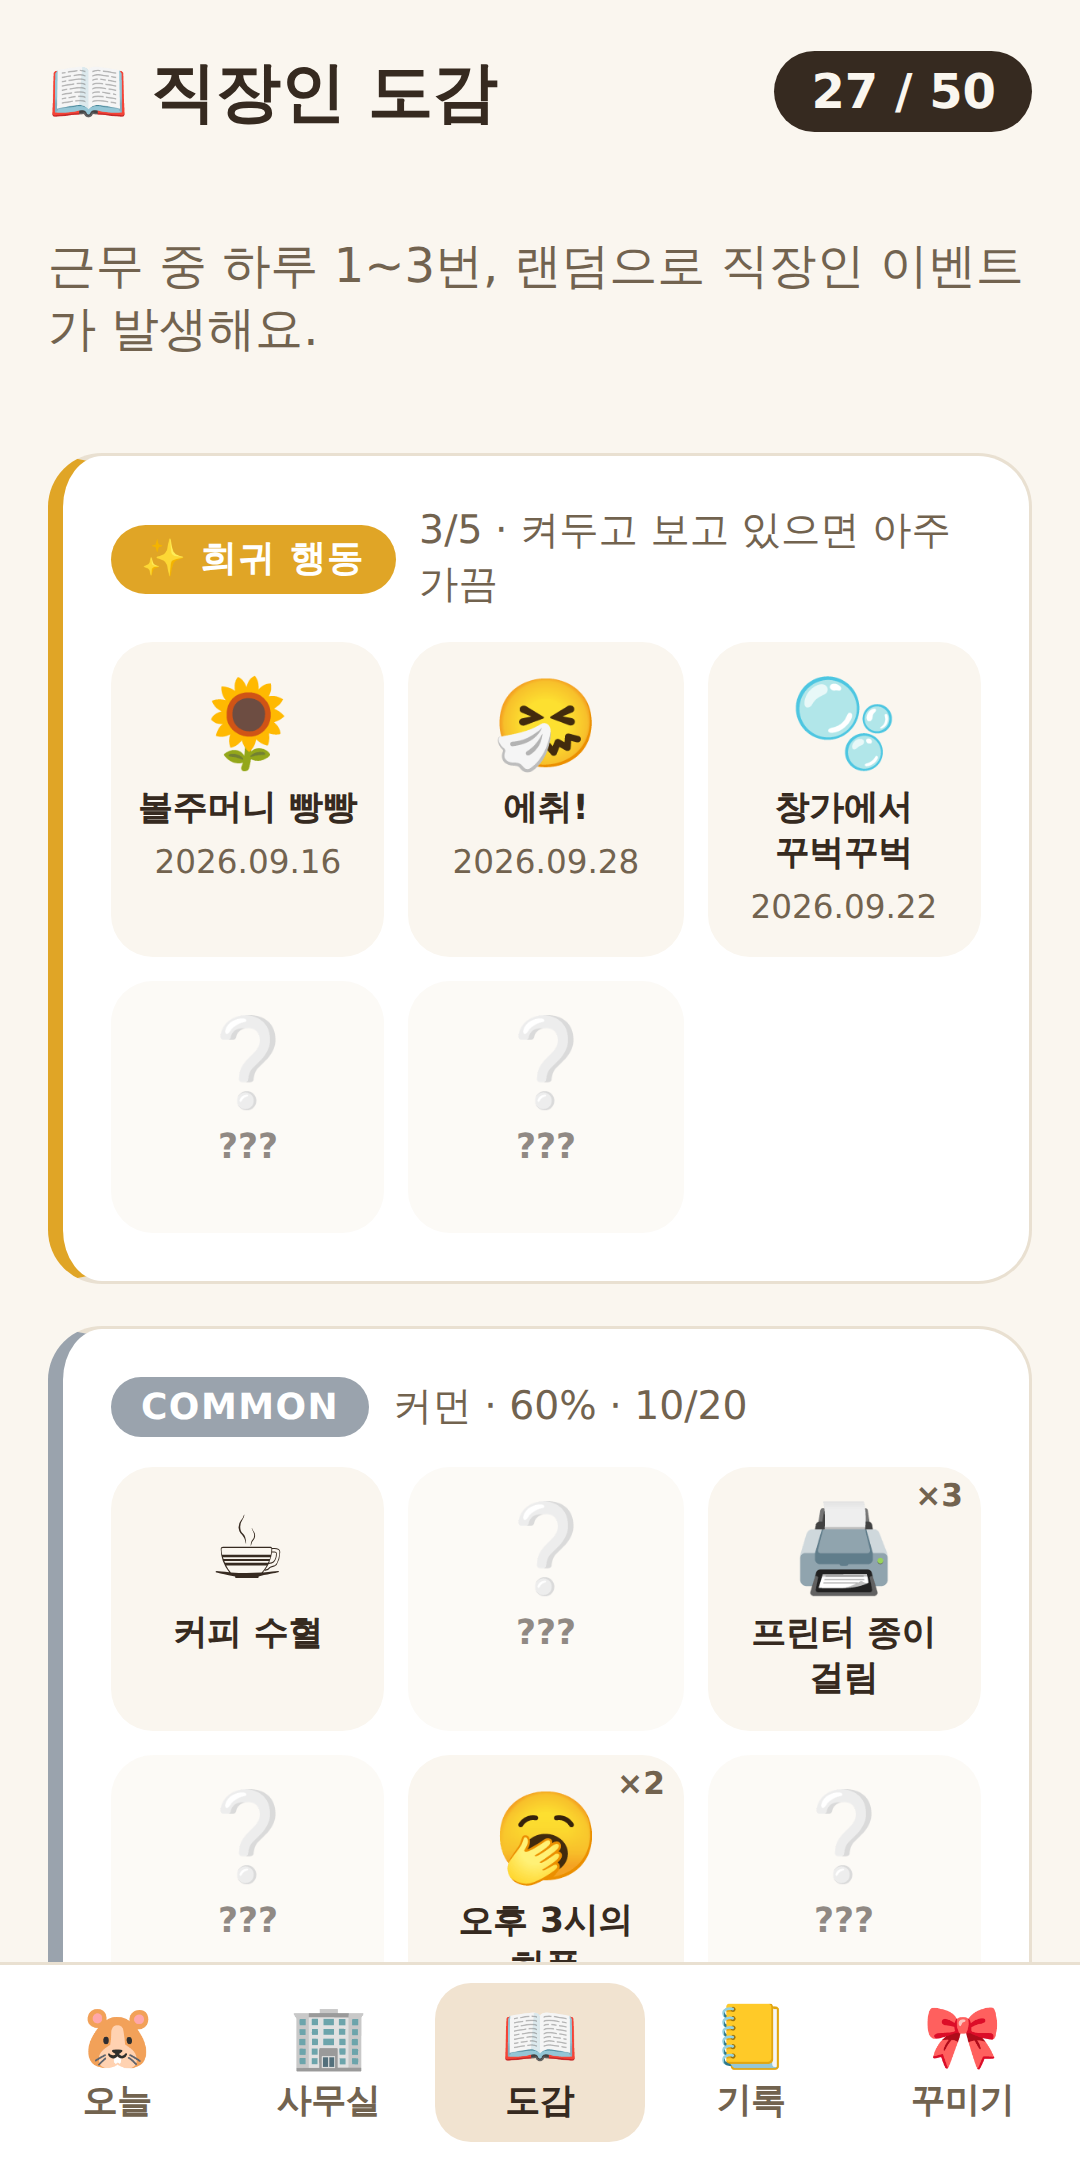
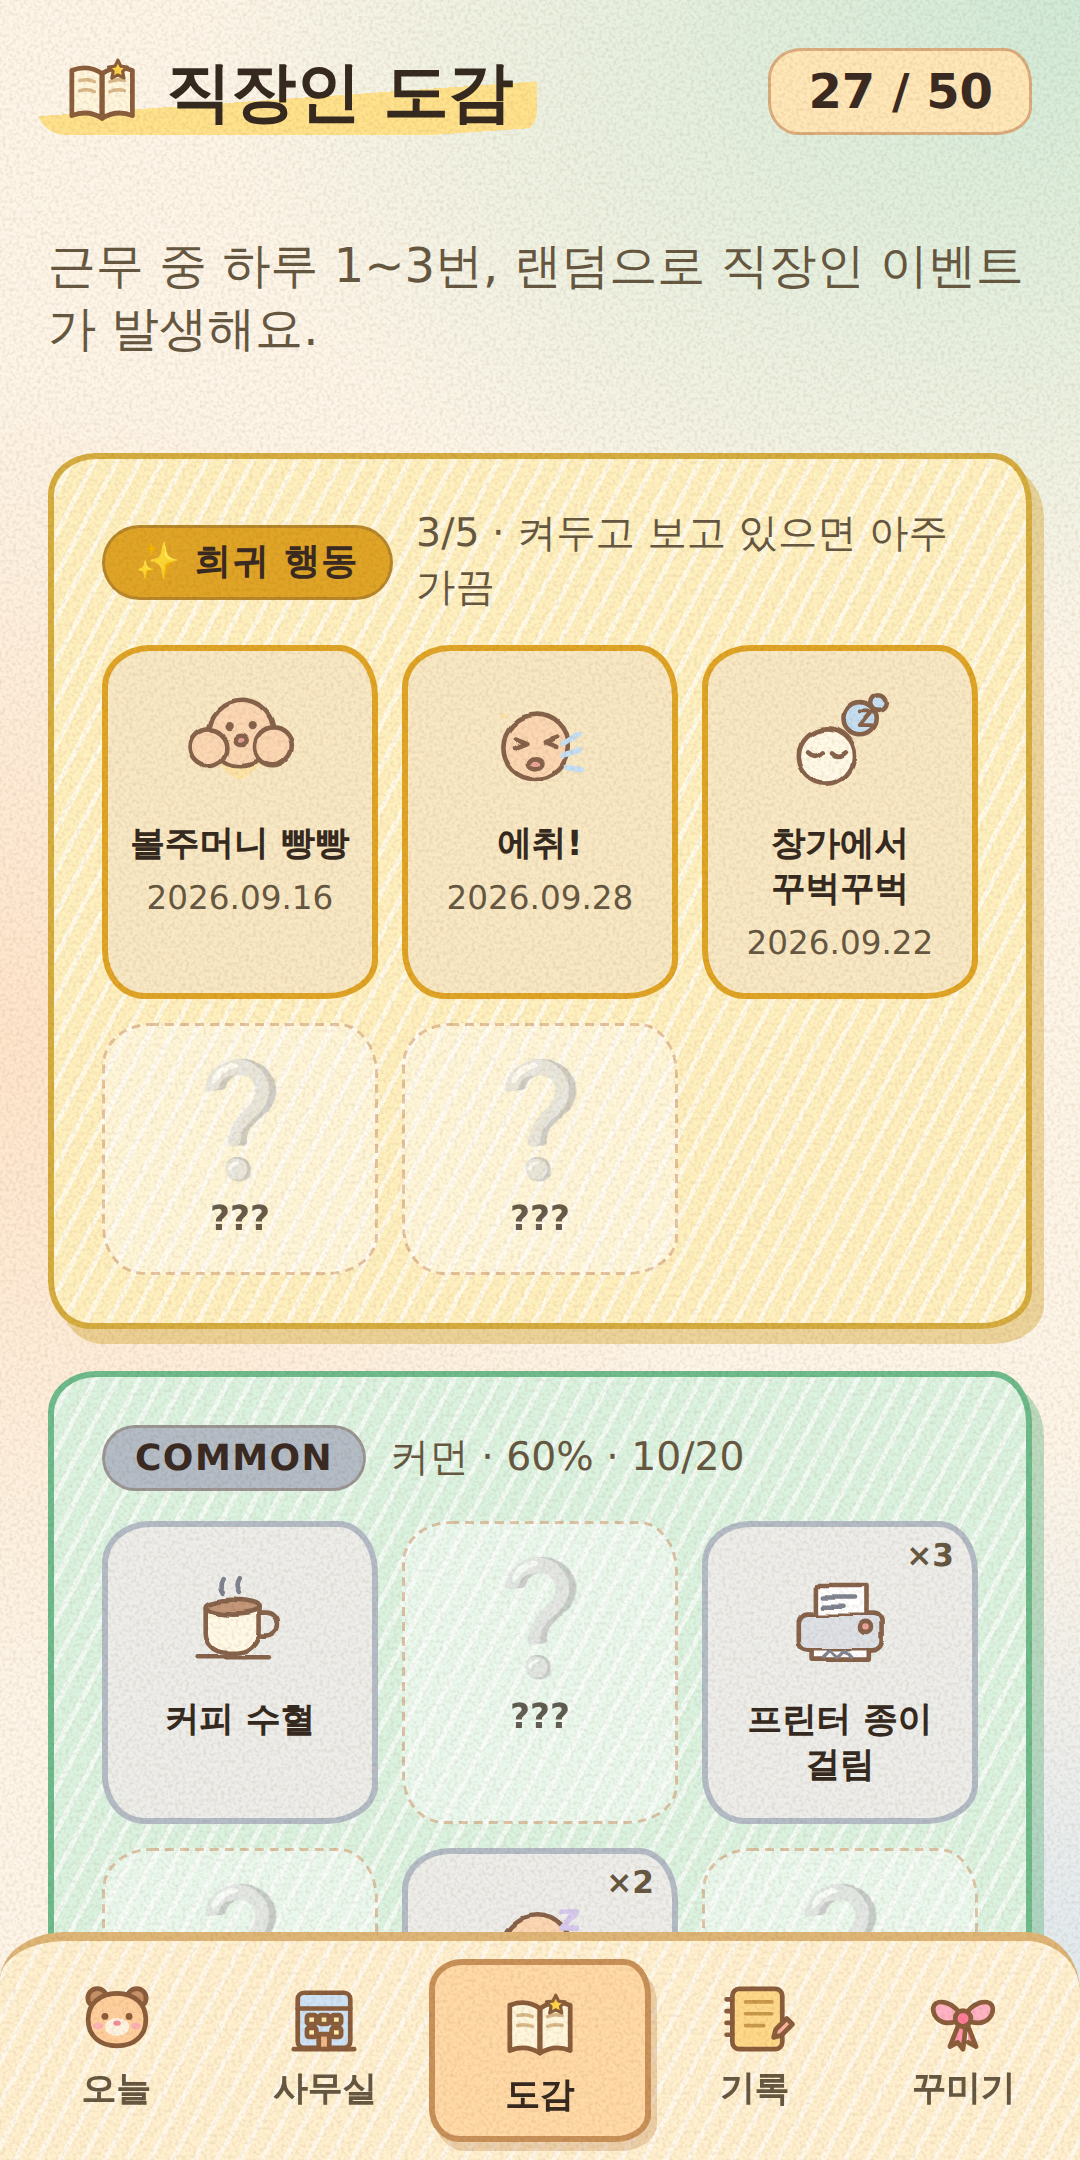
스토어 스크린샷을 새 디자인으로 재촬영, 가로 화면 카드 여백 수정, 스토어 등록 문구 초안 추가
Claude-Session: https://claude.ai/code/session_013ZkyNmJ4H36xCyz94C7hAs

diff --git a/src/styles.css b/src/styles.css
@@ -2355,3 +2355,9 @@ textarea {
   width: 1.1em;
   height: 1.1em;
 }
+
+/* 가로(탁상시계) 화면: 노란 메모지 카드 안쪽 여백 */
+.app.clock .hero-money {
+  padding: 8px 14px 10px;
+  transform: none;
+}

diff --git a/store/listing-ko.md b/store/listing-ko.md
@@ -1,0 +1,67 @@
+# 플레이스토어 등록 문구 (한국어)
+
+## 앱 이름 (30자 이내)
+햄스터 출근일지
+
+## 짧은 설명 (80자 이내)
+켜두기만 하면 햄스터가 일하고, 내가 번 돈이 실시간으로 쌓여요.
+
+## 전체 설명 (4000자 이내)
+햄스터 출근일지는 "그냥 켜놓는" 직장인 친구 앱이에요.
+
+출근 시간에 맞춰 앱을 켜두면 귀여운 햄스터가 작은 집에서 하루를 보내요. 타자를 치고, 커피를 마시고, 쳇바퀴를 돌고, 가끔은 꾸벅꾸벅 졸기도 해요. 그동안 오늘 내가 번 돈이 1초 단위로 쌓입니다.
+
+■ 이런 점이 좋아요
+• 오늘 번 돈이 실시간으로 올라가요 — 연봉만 입력하면 4대보험과 소득세를 뺀 예상 실수령액으로 계산해요(참고용 추정치).
+• 일하는 시간만큼 햄스터가 작업물을 하나씩 완성해요. 사무실, 카페, 옥상 정원, 캠핑장까지 시즌마다 새 공간이 열려요.
+• 근무 중 가끔 "직장인 이벤트"가 터져요. 회의 취소, 성과급 소식, 칼퇴각… 50가지 이벤트를 도감에 모아보세요.
+• 모자, 옷, 책상 장식, 서식지 배경으로 햄스터를 꾸미고, 오래 출근할수록 새 아이템이 열려요.
+• 월급날까지 남은 날, 출근 도장, 연속 출근 기록을 한눈에 볼 수 있어요.
+• 공휴일(설·추석·대체공휴일 포함)에는 햄스터도 쉬어요. 연차나 회사 휴무는 직접 정할 수 있어요.
+• 휴대폰을 가로로 눕히면 탁상시계 모드로 변신해요. 책상 위에 올려두세요.
+• 손으로 그린 듯한 파스텔 색연필 그림체예요.
+
+■ 개인정보
+• 입력한 연봉과 모든 기록은 내 휴대폰 안에만 저장되고, 서버로 전송되지 않아요.
+• 계정 가입이 필요 없어요.
+• 설정에서 백업 파일을 저장하고 불러올 수 있어요. 폰을 바꿔도 기록을 옮길 수 있어요.
+
+■ 알려드려요
+• 세금 계산은 참고용 추정치라 실제 급여명세서와 다를 수 있어요.
+• 이 앱은 급여 관리나 노무 서비스가 아니라 즐기기 위한 앱이에요.
+
+## 카테고리
+라이프스타일 (또는 생산성)
+
+## 태그 제안
+라이프스타일, 직장인, 캐릭터 키우기, 방치형
+
+## 개인정보처리방침 주소
+https://baebae6ae.github.io/chool_geun/privacy.html
+
+## 연락처 (공개되므로 새 메일 권장)
+이메일: (앱 전용 새 메일 주소)
+웹사이트: https://github.com/baebae6ae/chool_geun
+
+## 콘텐츠 등급 설문 답변 가이드
+- 폭력, 성적 내용, 욕설, 약물, 도박(실제 돈): 모두 "없음"
+- 가챠(뽑기) 요소: 앱 안의 도감 수집이며 돈을 내지 않고 실제 가치가 없어요
+- 앱 안 결제·광고: 없음 (광고를 붙이면 그때 "있음"으로 바꿔야 함)
+- 사용자 간 소통·위치 공유: 없음
+- 타겟 연령: 만 13세 이상(아동 대상 아님)
+
+## 데이터 보안 설문 답변 가이드 (현재 버전 기준)
+- 수집하는 사용자 데이터: 없음 (모든 데이터는 기기 안에만 저장)
+- 제3자와 공유: 없음
+- 전송 중 암호화/삭제 요청: 해당 없음 (서버 없음)
+- ※ 광고(AdMob)를 붙이는 업데이트부터는 "기기 ID 수집, 광고 목적, 제3자 공유"로 바꿔야 함
+
+## 스크린샷 순서 제안
+1. 01-home — 오늘 번 돈과 햄스터
+2. 02-gacha — 직장인 이벤트
+3. 03-office — 사무실이 꾸며지는 모습
+4. 04-collection — 도감
+5. 05-records — 기록과 출근 도장
+6. 07-customize — 꾸미기
+7. 06-setup — 연봉만 넣으면 시작
+8. 08-clock-landscape — 탁상시계 모드
